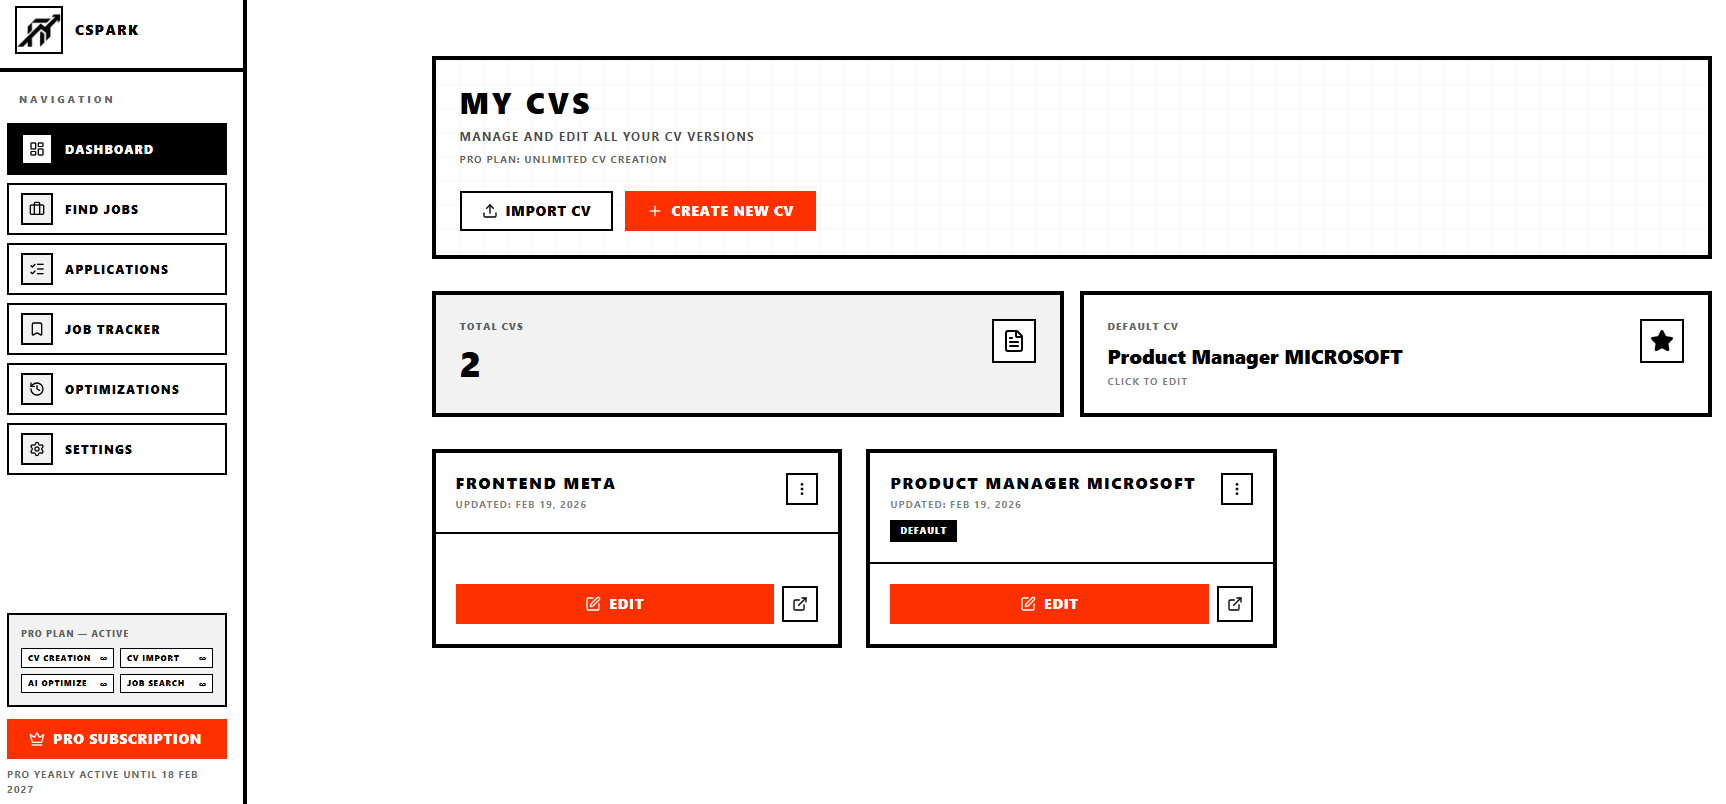
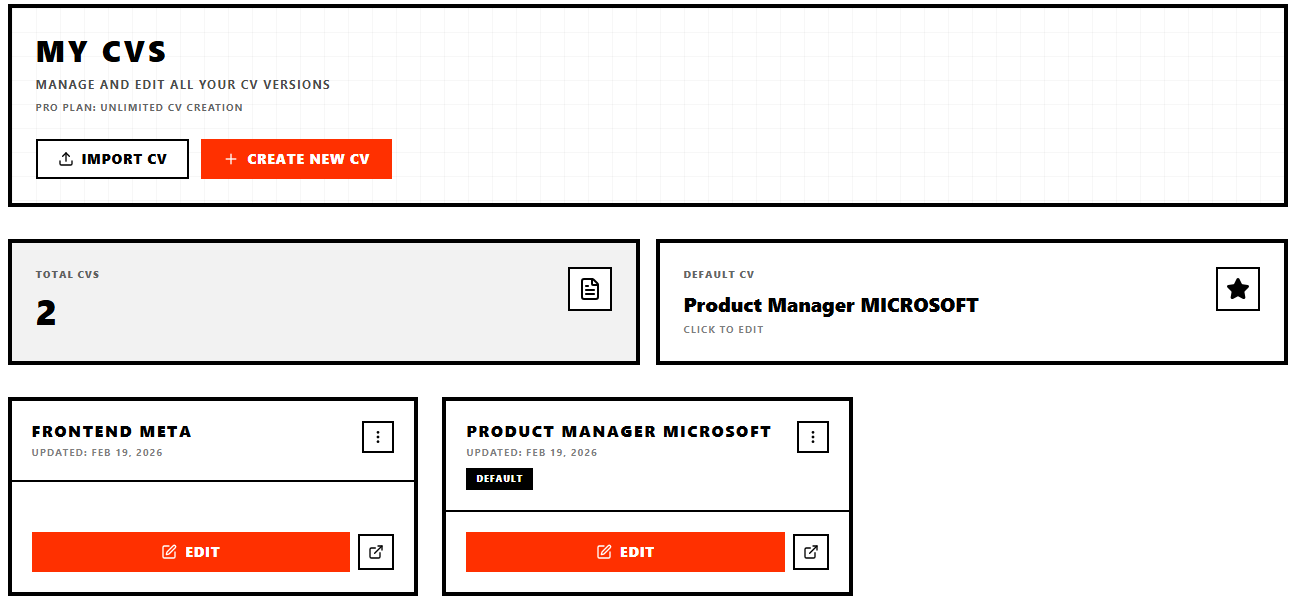
fix: mobile responsive layout - navbar, hero, gallery, dashboard padding

Changed region(s): [[0.0, 0.0, 1.0, 1.0]]

diff --git a/app/page.tsx b/app/page.tsx
@@ -310,16 +310,16 @@ export default function Home() {
       )}
 
       <nav className="sticky top-0 z-50 border-b-4 border-black bg-white">
-        <div className="mx-auto flex h-20 max-w-7xl items-center justify-between px-4 sm:px-6 lg:px-8">
-          <div className="flex items-center gap-4">
+        <div className="mx-auto flex h-14 sm:h-20 max-w-7xl items-center justify-between px-4 sm:px-6 lg:px-8">
+          <div className="flex items-center gap-2 sm:gap-4">
             <Image
               src={isDark ? '/favicon-white.png' : '/favicon.png'}
               alt="CSpark logo"
               width={88}
               height={88}
-              className="h-20 w-20 object-contain"
+              className="h-11 w-11 sm:h-20 sm:w-20 object-contain"
             />
-            <div className="flex flex-col leading-none">
+            <div className="hidden sm:flex flex-col leading-none">
               <span className="text-xs font-black uppercase tracking-[0.4em] text-[#FF3000]">
                 CSpark
               </span>
@@ -348,16 +348,16 @@ export default function Home() {
               FAQ
             </Link>
           </div>
-          <div className="flex items-center gap-4">
+          <div className="flex items-center gap-2 sm:gap-4">
             <ThemeToggle isDark={isDark} onToggle={() => setIsDark(!isDark)} />
             <Link
               href={currentUser ? '/dashboard' : '/login'}
-              className="text-sm font-bold uppercase tracking-widest text-black transition-colors hover:text-[#FF3000]"
+              className="text-xs sm:text-sm font-bold uppercase tracking-widest text-black transition-colors hover:text-[#FF3000]"
             >
               {currentUser ? displayName : 'Sign In'}
             </Link>
             {!currentUser && (
-              <Button asChild variant="accent" size="sm">
+              <Button asChild variant="accent" size="sm" className="hidden sm:inline-flex">
                 <Link href="/register">Start Free</Link>
               </Button>
             )}
@@ -375,7 +375,7 @@ export default function Home() {
         <section aria-labelledby="hero-heading" className="mx-auto w-full max-w-7xl px-4 pb-20 pt-10 sm:px-6 lg:px-8">
           <div className="max-w-4xl">
             <div>
-              <h1 className="text-6xl font-black uppercase leading-[0.9] tracking-tight sm:text-7xl lg:text-[9rem]">
+              <h1 className="text-[1.5rem] font-black uppercase leading-[0.9] tracking-tight sm:text-6xl lg:text-[9rem]">
                 Search{' '}
                 <MorphingText
                   texts={['LinkedIn', 'Workday', 'CareerOne']}
@@ -384,13 +384,13 @@ export default function Home() {
                     Workday: '#005CB9',
                     CareerOne: '#00A651',
                   }}
-                  className="mx-0 inline-block h-[0.9em] w-[9ch] max-w-none align-baseline text-left text-[1em] font-black uppercase leading-[0.9] tracking-tight md:h-[0.9em] md:text-[1em] lg:text-[1em]"
+                  className="mx-0 inline-block h-[0.9em] w-[8ch] sm:w-[9ch] max-w-none align-baseline text-left text-[1em] font-black uppercase leading-[0.9] tracking-tight md:h-[0.9em] md:text-[1em] lg:text-[1em]"
                 />{' '}
                 Jobs.
                 <br />
                 Tailor Your CV.
               </h1>
-              <p className="mt-6 max-w-2xl text-lg font-medium uppercase tracking-[0.12em] text-black/80">
+              <p className="mt-6 max-w-2xl text-sm sm:text-lg font-medium uppercase tracking-[0.12em] text-black/80">
                 A precise, job-specific CV workflow powered by Meta Llama 3.3 and
                 real-time job search.
               </p>
@@ -448,7 +448,7 @@ export default function Home() {
                 </div>
               </div>
 
-              <div className="mt-8 flex items-center gap-4 border-4 border-black bg-[#F2F2F2] px-6 py-4">
+              <div className="mt-8 flex items-center gap-3 sm:gap-4 border-4 border-black bg-[#F2F2F2] px-4 sm:px-6 py-4">
                 <MetaLogo className="h-10 w-10" />
                 <div>
                   <div className="text-xs font-black uppercase tracking-[0.3em] text-[#FF3000]">
@@ -476,7 +476,7 @@ export default function Home() {
               </div>
               <h2
                 id="features-heading"
-                className="mt-4 text-5xl font-black uppercase leading-tight sm:text-6xl"
+                className="mt-4 text-3xl font-black uppercase leading-tight sm:text-5xl lg:text-6xl"
               >
                 Everything in one place
               </h2>
@@ -544,7 +544,7 @@ export default function Home() {
               <div className="text-xs font-black uppercase tracking-[0.4em] text-[#FF3000]">
                 02. Method
               </div>
-              <h2 className="mt-4 text-5xl font-black uppercase leading-tight sm:text-6xl">
+              <h2 className="mt-4 text-3xl font-black uppercase leading-tight sm:text-5xl lg:text-6xl">
                 How CSPARK works.
               </h2>
               <p className="mt-4 text-sm font-bold uppercase tracking-widest text-black/50">
@@ -609,7 +609,7 @@ export default function Home() {
               </div>
 
               {/* Right: concrete before/after example */}
-              <div className="border-4 border-l-0 border-black bg-black text-white flex flex-col">
+              <div className="border-4 border-black lg:border-l-0 bg-black text-white flex flex-col">
                 <div className="border-b-4 border-white/20 px-7 py-5">
                   <span className="text-[10px] font-black uppercase tracking-[0.4em] text-[#FF3000]">Live example</span>
                   <div className="mt-1 text-sm font-black uppercase tracking-widest">Senior Product Manager @ Stripe</div>
@@ -671,7 +671,7 @@ export default function Home() {
                 <div className="text-xs font-black uppercase tracking-[0.4em] text-[#FF3000]">
                   03. Advantages
                 </div>
-                <h2 className="mt-6 text-5xl font-black uppercase leading-tight sm:text-6xl">
+                <h2 className="mt-6 text-3xl font-black uppercase leading-tight sm:text-5xl lg:text-6xl">
                   Every tool.<br />One workflow.
                 </h2>
                 <p className="mt-4 max-w-xl text-sm font-bold uppercase tracking-widest text-black/50">
@@ -788,7 +788,7 @@ export default function Home() {
                 <div className="text-xs font-black uppercase tracking-[0.4em] text-[#FF3000]">
                   04. Pricing
                 </div>
-                <h2 className="mt-6 text-5xl font-black uppercase leading-tight sm:text-6xl">
+                <h2 className="mt-6 text-3xl font-black uppercase leading-tight sm:text-5xl lg:text-6xl">
                   Free for starters. Pro for volume.
                 </h2>
                 <p className="mt-6 text-lg font-medium uppercase tracking-[0.12em] text-black/80">
@@ -882,7 +882,7 @@ export default function Home() {
                 <div className="text-xs font-black uppercase tracking-[0.4em] text-[#FF3000]">
                   05. Journal
                 </div>
-                <h2 className="mt-6 text-5xl font-black uppercase leading-tight sm:text-6xl">
+                <h2 className="mt-6 text-3xl font-black uppercase leading-tight sm:text-5xl lg:text-6xl">
                   Precision feedback from teams and candidates.
                 </h2>
                 <div className="mt-6 flex items-center gap-3 text-sm font-bold uppercase tracking-widest text-black/70">
@@ -937,7 +937,7 @@ export default function Home() {
                 <div className="text-xs font-black uppercase tracking-[0.4em] text-[#FF3000]">
                   06. FAQ
                 </div>
-                <h2 className="mt-6 text-5xl font-black uppercase leading-tight sm:text-6xl">
+                <h2 className="mt-6 text-3xl font-black uppercase leading-tight sm:text-5xl lg:text-6xl">
                   Straight answers.<br /><span className="whitespace-nowrap">Zero noise.</span>
                 </h2>
               </div>

diff --git a/components/ui/gallery-animation.tsx b/components/ui/gallery-animation.tsx
@@ -22,7 +22,7 @@ interface GalleryRowProps {
 
 // Defined OUTSIDE FeatureGallery so React never sees a new component type on re-render
 const GalleryRow: React.FC<GalleryRowProps> = ({ items, rowIndex, hoveredIndex, onHover, onOpen }) => (
-  <div className="flex gap-3 h-[460px] w-full">
+  <div className="flex gap-3 h-[300px] sm:h-[460px] min-w-[520px] sm:min-w-0 sm:w-full">
     {items.map((feature, itemIndex) => {
       const globalIndex = rowIndex * 3 + itemIndex;
       const isHovered = hoveredIndex === globalIndex;
@@ -122,7 +122,7 @@ const FeatureGallery: React.FC<FeatureGalleryProps> = ({ features, className = '
 
   return (
     <div className={className}>
-      <div className="flex flex-col gap-3">
+      <div className="flex flex-col gap-3 overflow-x-auto pb-1">
         <GalleryRow items={row1} rowIndex={0} hoveredIndex={hoveredIndex} onHover={setHoveredIndex} onOpen={setSelectedIndex} />
         <GalleryRow items={row2} rowIndex={1} hoveredIndex={hoveredIndex} onHover={setHoveredIndex} onOpen={setSelectedIndex} />
       </div>

diff --git a/app/(dashboard)/layout.tsx b/app/(dashboard)/layout.tsx
@@ -598,7 +598,7 @@ export default function DashboardLayout({ children }: { children: React.ReactNod
 
       {/* Main Content */}
       <main className="lg:ml-64 min-h-screen pt-16 lg:pt-0">
-        <div className="p-8">{children}</div>
+        <div className="p-4 sm:p-8">{children}</div>
       </main>
 
       <Dialog open={upgradeOpen} onOpenChange={setUpgradeOpen}>
